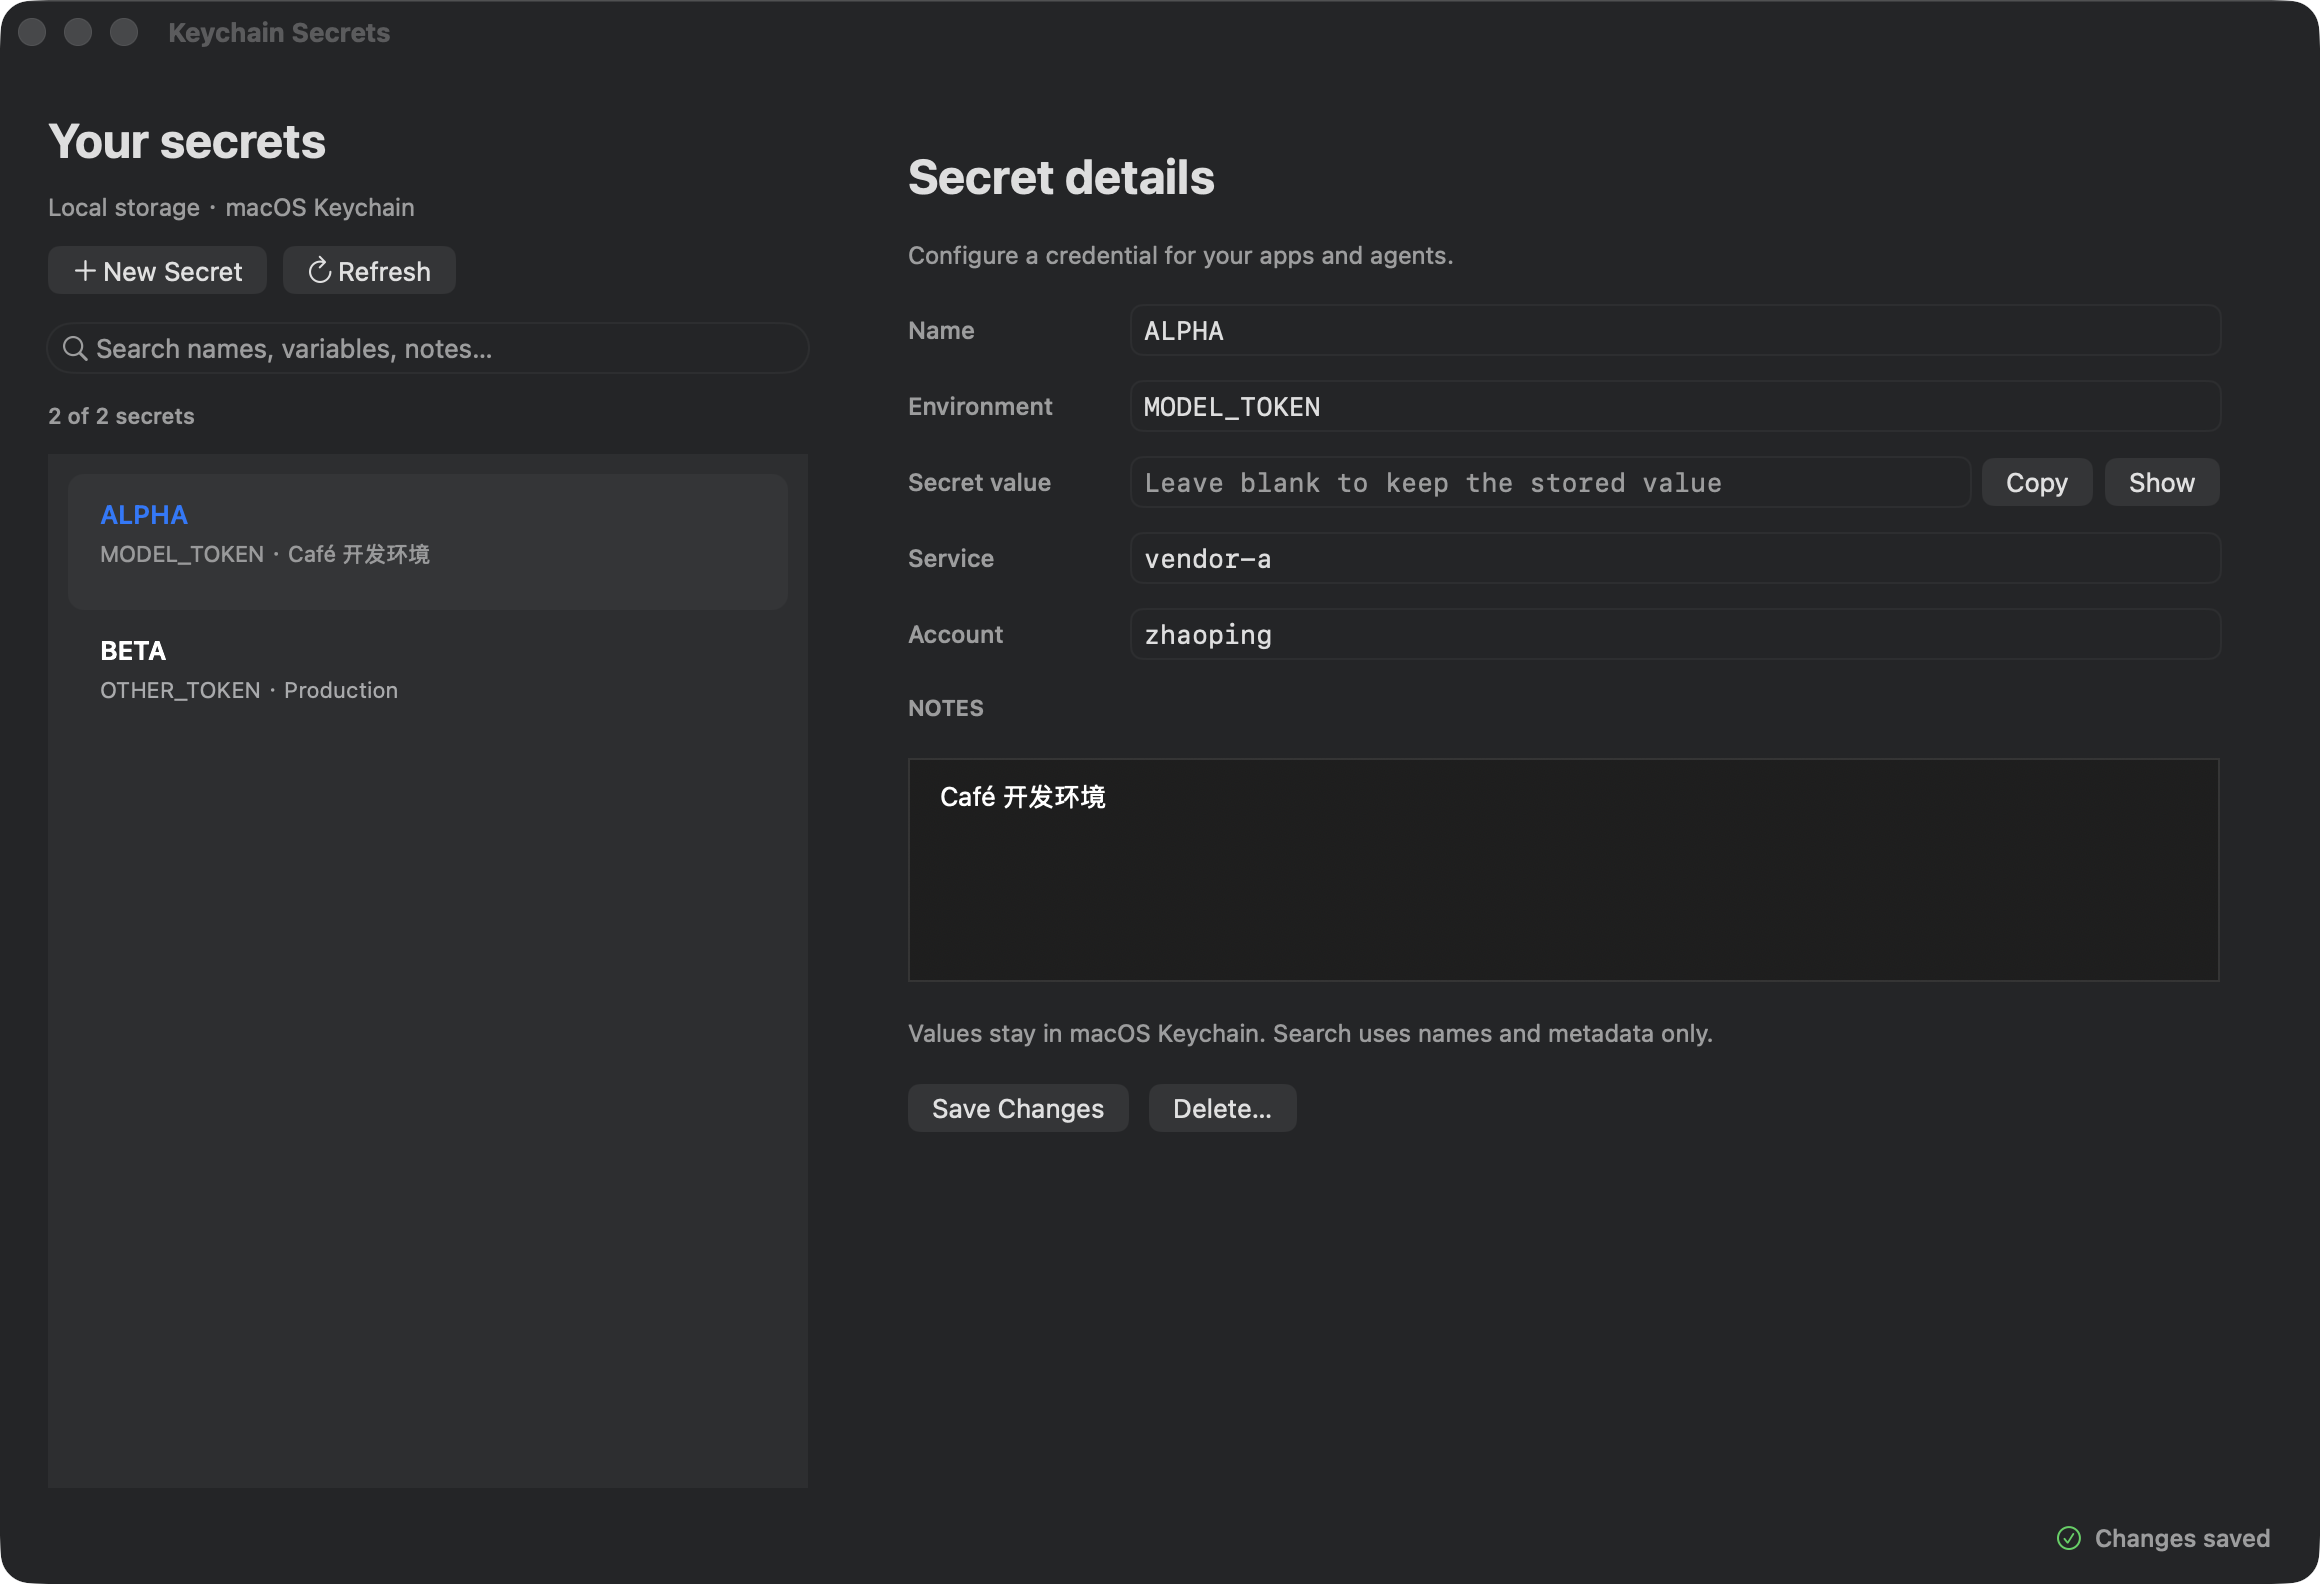
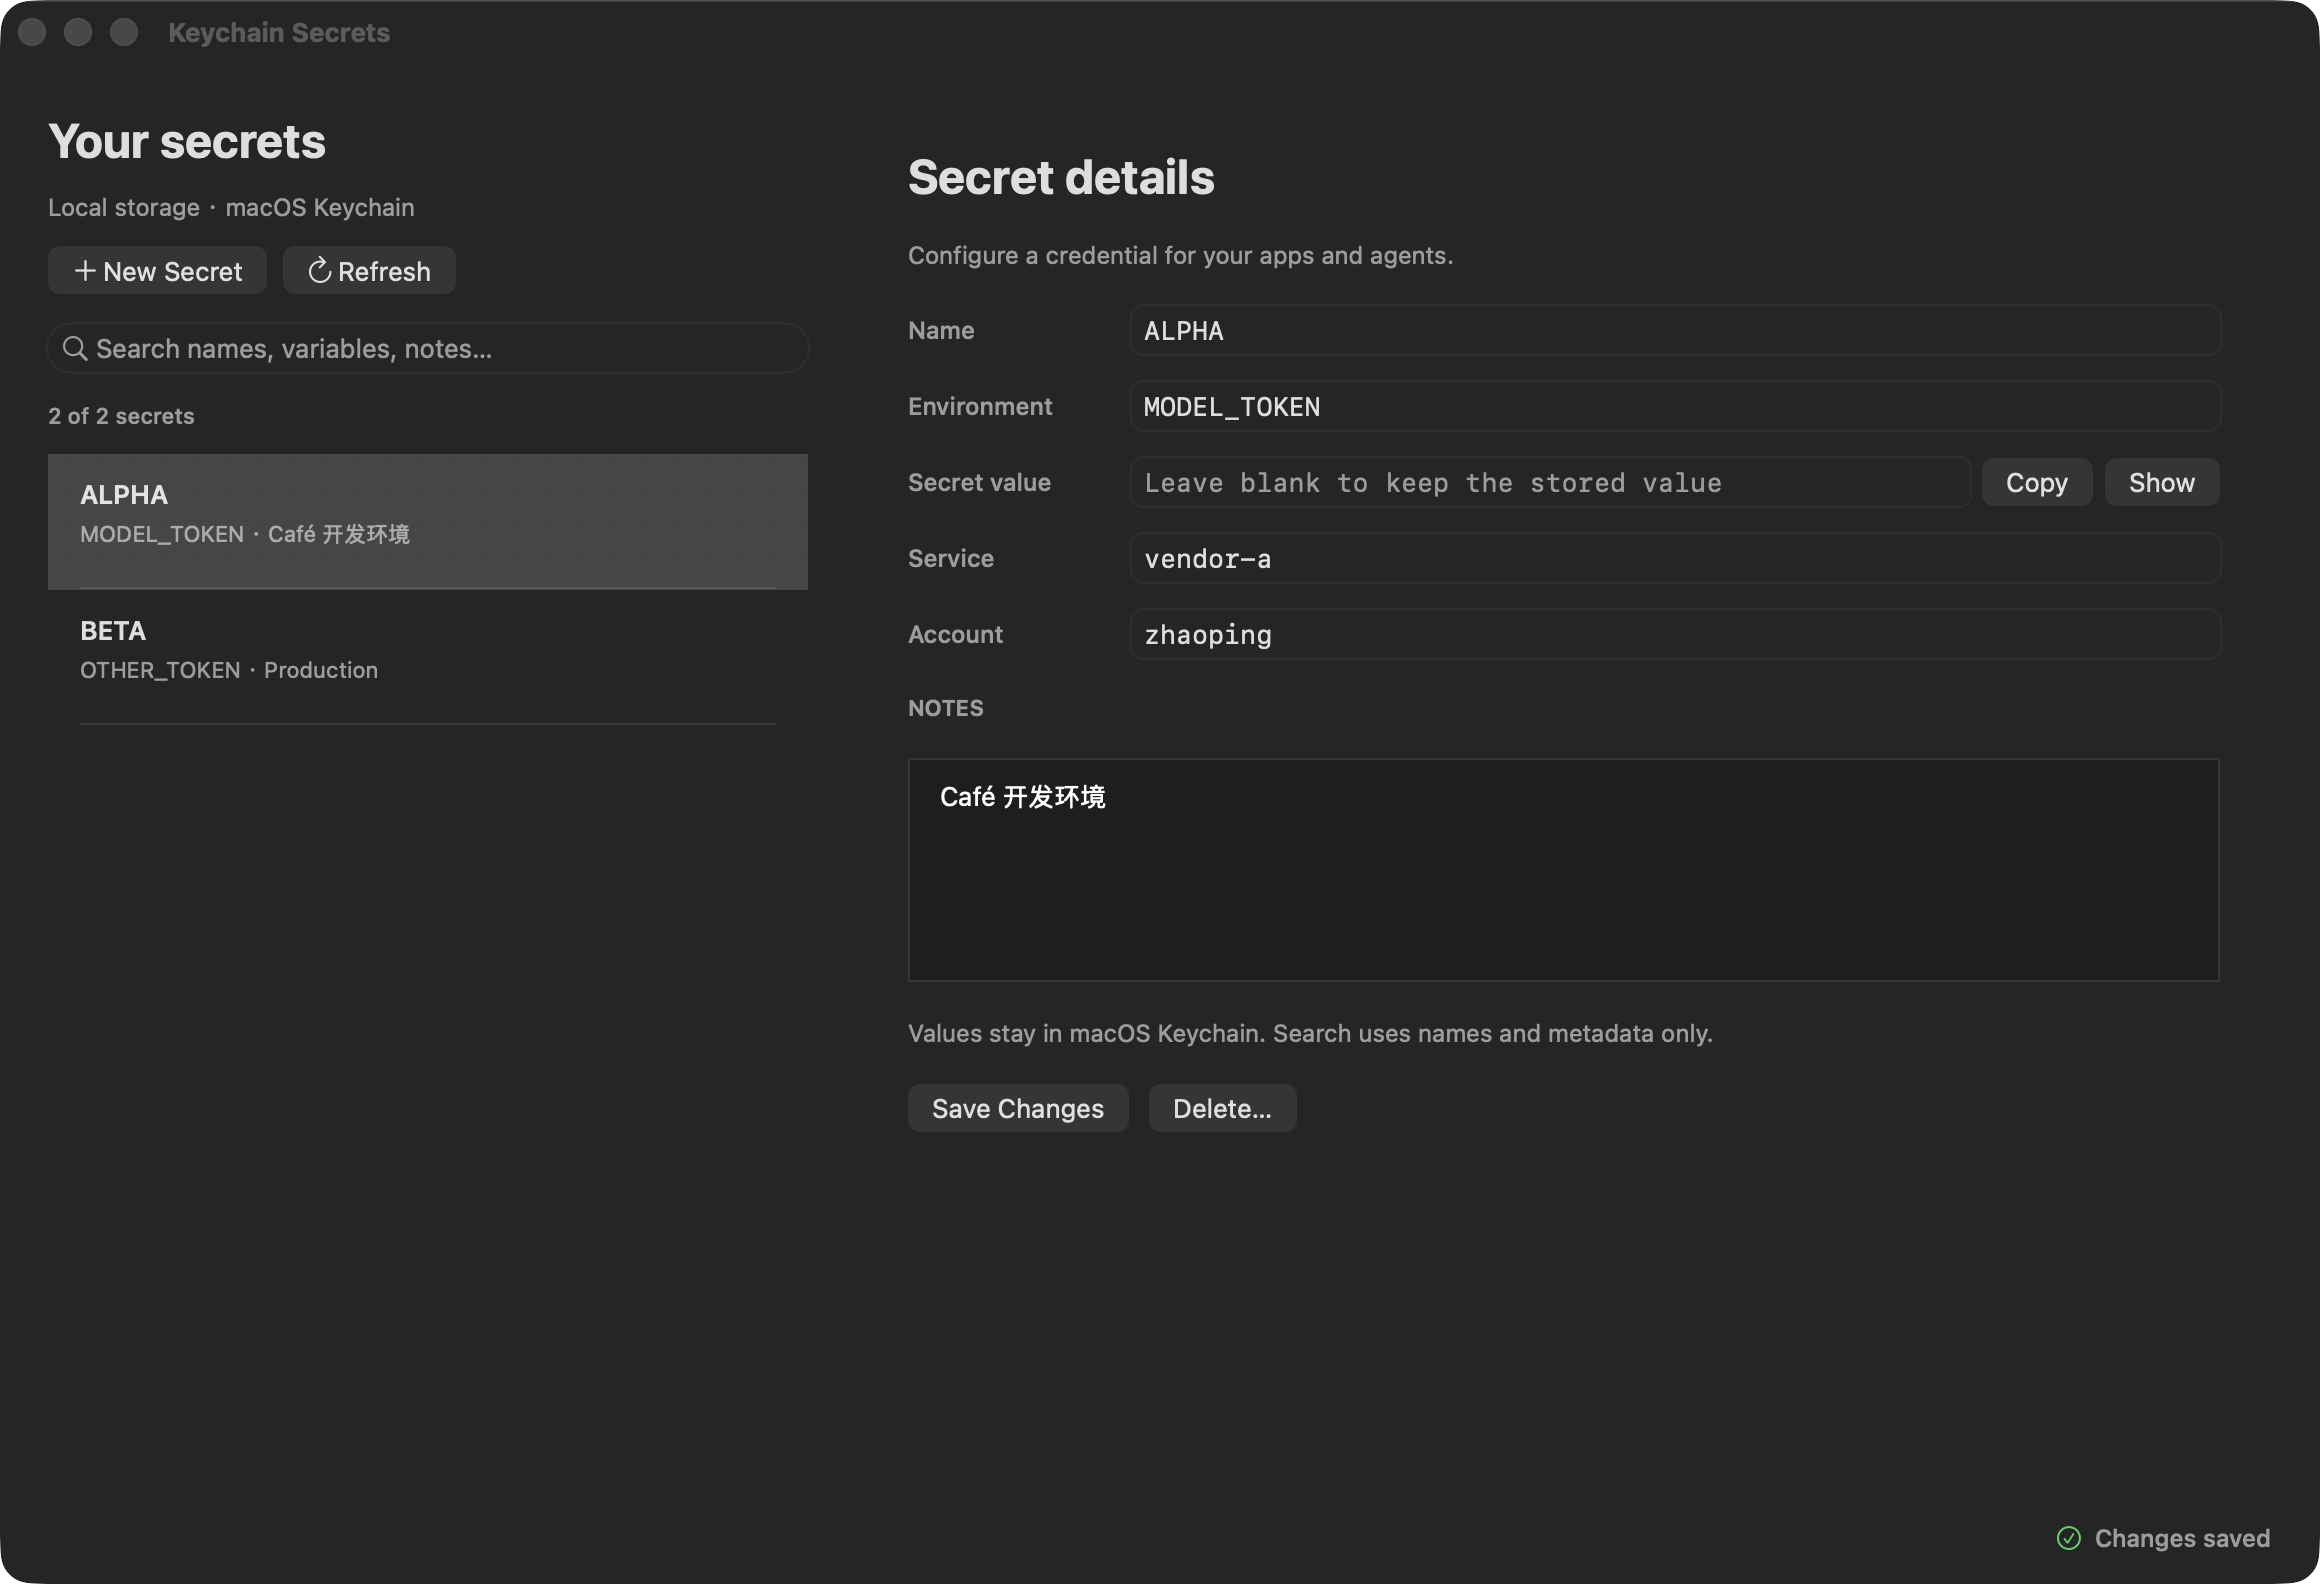
design: separate secret entries and strengthen row selection

Changed region(s): [[0.0, 0.2784, 0.3724, 0.464]]

diff --git a/macos/KeychainSecretsApp.m b/macos/KeychainSecretsApp.m
@@ -247,7 +247,8 @@ typedef NS_ENUM(NSInteger, StatusKind) { StatusIdle, StatusUnsaved, StatusWorkin
     self.table.dataSource = self;
     self.table.headerView = nil;
     self.table.rowHeight = 68;
-    self.table.style = NSTableViewStyleSourceList;
+    self.table.style = NSTableViewStyleFullWidth;
+    self.table.backgroundColor = NSColor.controlBackgroundColor;
     self.table.allowsEmptySelection = YES;
     self.table.columnAutoresizingStyle = NSTableViewFirstColumnOnlyAutoresizingStyle;
     self.table.accessibilityLabel = @"Secrets";
@@ -432,6 +433,16 @@ typedef NS_ENUM(NSInteger, StatusKind) { StatusIdle, StatusUnsaved, StatusWorkin
         }
         [title.topAnchor constraintEqualToAnchor:cell.topAnchor constant:12].active = YES;
         [subtitle.topAnchor constraintEqualToAnchor:title.bottomAnchor constant:5].active = YES;
+        NSBox *separator = [[NSBox alloc] init];
+        separator.boxType = NSBoxSeparator;
+        separator.translatesAutoresizingMaskIntoConstraints = NO;
+        [cell addSubview:separator];
+        [NSLayoutConstraint activateConstraints:@[
+            [separator.leadingAnchor constraintEqualToAnchor:cell.leadingAnchor constant:10],
+            [separator.trailingAnchor constraintEqualToAnchor:cell.trailingAnchor constant:-10],
+            [separator.bottomAnchor constraintEqualToAnchor:cell.bottomAnchor],
+            [separator.heightAnchor constraintEqualToConstant:1],
+        ]];
         cell.textField = title;
     }
     cell.textField.stringValue = name;
